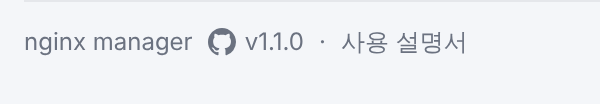
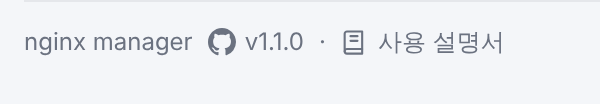
사용 설명서 링크를 메뉴 아래 눈에 띄는 단추로, footer에도 아이콘
Claude-Session: https://claude.ai/code/session_01Xx9UjmFxa6PwMWkaLNmHo7

Changed region(s): [[0.57, 0.2885, 0.84, 0.5481]]

diff --git a/src/main/resources/templates/fragments/layout.html b/src/main/resources/templates/fragments/layout.html
@@ -27,9 +27,10 @@
         <a th:if="${currentUser != null and currentUser.isAdmin()}" th:href="@{/users}" th:classappend="${navSection == 'users'} ? 'active'"><svg class="icon" viewBox="0 0 24 24" aria-hidden="true"><circle cx="9" cy="8" r="4"/><path d="M2 21a7 7 0 0 1 14 0M16 4a4 4 0 0 1 0 8M22 21a7 7 0 0 0-4-6.3"/></svg><span th:text="#{nav.users}">사용자</span></a>
         <a th:if="${currentUser != null and currentUser.isAdmin()}" th:href="@{/audit}" th:classappend="${navSection == 'audit'} ? 'active'"><svg class="icon" viewBox="0 0 24 24" aria-hidden="true"><path d="M9 5H7a2 2 0 0 0-2 2v12a2 2 0 0 0 2 2h10a2 2 0 0 0 2-2V7a2 2 0 0 0-2-2h-2"/><rect x="9" y="3" width="6" height="4" rx="1"/><path d="M9 13l2 2 4-4"/></svg><span th:text="#{nav.audit}">감사 로그</span></a>
         <a th:if="${currentUser != null and currentUser.isAdmin()}" th:href="@{/settings/notifications}" th:classappend="${navSection == 'settings'} ? 'active'"><svg class="icon" viewBox="0 0 24 24" aria-hidden="true"><circle cx="12" cy="12" r="3"/><path d="M19.4 15a1.7 1.7 0 0 0 .3 1.8l.1.1a2 2 0 1 1-2.8 2.8l-.1-.1a1.7 1.7 0 0 0-1.8-.3 1.7 1.7 0 0 0-1 1.5V21a2 2 0 1 1-4 0v-.1a1.7 1.7 0 0 0-1.1-1.5 1.7 1.7 0 0 0-1.8.3l-.1.1a2 2 0 1 1-2.8-2.8l.1-.1a1.7 1.7 0 0 0 .3-1.8 1.7 1.7 0 0 0-1.5-1H3a2 2 0 1 1 0-4h.1a1.7 1.7 0 0 0 1.5-1.1 1.7 1.7 0 0 0-.3-1.8l-.1-.1a2 2 0 1 1 2.8-2.8l.1.1a1.7 1.7 0 0 0 1.8.3H9a1.7 1.7 0 0 0 1-1.5V3a2 2 0 1 1 4 0v.1a1.7 1.7 0 0 0 1 1.5 1.7 1.7 0 0 0 1.8-.3l.1-.1a2 2 0 1 1 2.8 2.8l-.1.1a1.7 1.7 0 0 0-.3 1.8V9a1.7 1.7 0 0 0 1.5 1H21a2 2 0 1 1 0 4h-.1a1.7 1.7 0 0 0-1.5 1z"/></svg><span th:text="#{nav.settings}">설정</span></a>
-        <a class="nav-manual" th:href="${appVersion.manualUrl()}" target="_blank" rel="noopener"><svg class="icon" viewBox="0 0 24 24" aria-hidden="true"><path d="M4 5a2 2 0 0 1 2-2h13v15H6a2 2 0 0 0-2 2z"/><path d="M4 20a2 2 0 0 0 2 2h13v-4M9 7h6M9 11h6"/></svg><span th:text="#{nav.manual}">사용 설명서</span></a>
     </div>
     <span class="spacer"></span>
+    <!-- 사용 설명서: 메뉴와 구분해 눈에 띄게 둔다. 새 탭으로 GitHub의 설명서를 연다 -->
+    <a class="nav-manual" th:href="${appVersion.manualUrl()}" target="_blank" rel="noopener"><svg class="icon" viewBox="0 0 24 24" aria-hidden="true"><path d="M4 5a2 2 0 0 1 2-2h13v15H6a2 2 0 0 0-2 2z"/><path d="M4 20a2 2 0 0 0 2 2h13v-4M9 7h6M9 11h6"/></svg><span th:text="#{nav.manual}">사용 설명서</span><svg class="icon icon-external" viewBox="0 0 24 24" aria-hidden="true"><path d="M14 4h6v6M20 4l-9 9M18 14v5a1 1 0 0 1-1 1H5a1 1 0 0 1-1-1V7a1 1 0 0 1 1-1h5"/></svg></a>
     <div class="langs" th:fragment="langs" th:aria-label="#{nav.language}">
         <a href="?lang=ko" th:href="${langQuery} + 'lang=ko'" lang="ko" th:classappend="${#locale.language == 'ko'} ? 'active'">한국어</a>
         <a href="?lang=en" th:href="${langQuery} + 'lang=en'" lang="en" th:classappend="${#locale.language == 'en'} ? 'active'">English</a>
@@ -83,7 +84,7 @@
     <span>nginx manager</span>
     <a th:href="${appVersion.releaseNotesUrl()}" th:title="#{footer.releaseNotes}" target="_blank" rel="noopener"><svg class="icon icon-github" viewBox="0 0 16 16" aria-hidden="true"><path d="M8 0C3.58 0 0 3.58 0 8c0 3.54 2.29 6.53 5.47 7.59.4.07.55-.17.55-.38 0-.19-.01-.82-.01-1.49-2.01.37-2.53-.49-2.69-.94-.09-.23-.48-.94-.82-1.13-.28-.15-.68-.52-.01-.53.63-.01 1.08.58 1.23.82.72 1.21 1.87.87 2.33.66.07-.52.28-.87.51-1.07-1.78-.2-3.64-.89-3.64-3.95 0-.87.31-1.59.82-2.15-.08-.2-.36-1.02.08-2.12 0 0 .67-.21 2.2.82.64-.18 1.32-.27 2-.27.68 0 1.36.09 2 .27 1.53-1.04 2.2-.82 2.2-.82.44 1.1.16 1.92.08 2.12.51.56.82 1.27.82 2.15 0 3.07-1.87 3.75-3.65 3.95.29.25.54.73.54 1.48 0 1.07-.01 1.93-.01 2.2 0 .21.15.46.55.38A8.013 8.013 0 0 0 16 8c0-4.42-3.58-8-8-8z"/></svg><span th:text="${appVersion.label()}">v1.0.0</span></a>
     <span aria-hidden="true">·</span>
-    <a th:href="${appVersion.manualUrl()}" th:text="#{footer.manual}" target="_blank" rel="noopener">사용 설명서</a>
+    <a th:href="${appVersion.manualUrl()}" target="_blank" rel="noopener"><svg class="icon" viewBox="0 0 24 24" aria-hidden="true"><path d="M4 5a2 2 0 0 1 2-2h13v15H6a2 2 0 0 0-2 2z"/><path d="M4 20a2 2 0 0 0 2 2h13v-4M9 7h6M9 11h6"/></svg><span th:text="#{footer.manual}">사용 설명서</span></a>
 </footer>
 </body>
 </html>

diff --git a/src/main/resources/static/css/app.css b/src/main/resources/static/css/app.css
@@ -92,6 +92,13 @@ li { margin: .25rem 0; }
 .nav-links { display: flex; flex-direction: column; gap: .15rem; }
 .nav-label { margin: 1rem .7rem .35rem; color: var(--side-muted); font-size: .72rem; font-weight: 600; letter-spacing: .06em; }
 .nav .spacer { flex: 1; }
+.nav a.nav-manual {
+    margin: 0 0 .75rem; border: 1px solid rgba(45, 212, 191, .35); background: rgba(45, 212, 191, .08);
+    color: #fff; font-weight: 600;
+}
+.nav a.nav-manual:hover { background: rgba(45, 212, 191, .16); border-color: rgba(45, 212, 191, .6); }
+.nav a.nav-manual .icon { color: #2dd4bf; }
+.nav a.nav-manual .icon-external { width: 14px; height: 14px; margin-left: auto; color: var(--side-muted); }
 .langs { display: grid; grid-template-columns: 1fr 1fr; gap: .2rem; padding: .5rem .35rem .75rem; }
 .nav .langs a { width: auto; justify-content: center; padding: .2rem .5rem; border-radius: 6px; font-size: .75rem; color: var(--side-muted); }
 .nav .langs a.active { background: rgba(148, 163, 184, .16); color: #fff; }
@@ -502,6 +509,7 @@ body > footer, .footer { padding: 1.25rem 2rem 2rem; text-align: center; color: 
     .nav-user { border-top: 0; padding-top: 0; margin-left: auto; }
     .nav a, .nav button.link { width: auto; white-space: nowrap; padding: .45rem .6rem; }
     .nav-user span { display: none; }
+    .nav a.nav-manual { margin: 0; }
     .nav .langs { display: flex; padding: 0; }
     .page { padding: 1.25rem 1rem 2rem; }
     .columns { grid-template-columns: 1fr; }
@@ -526,9 +534,11 @@ body > footer, .footer { padding: 1.25rem 2rem 2rem; text-align: center; color: 
     .js .nav.open .nav-user { border-top: 1px solid rgba(148, 163, 184, .15); padding-top: .5rem; }
     .js .nav.open .nav-user span { display: inline; }
     .js .nav.open .nav-links a, .js .nav.open .nav-user a, .js .nav.open button.link { width: 100%; padding: .6rem .7rem; }
+    .js .nav.open a.nav-manual { width: 100%; margin: .5rem 0 0; padding: .6rem .7rem; }
     .js .nav.open .langs { width: 100%; padding: .5rem 0 0; flex-wrap: wrap; }
     .js .nav.open .langs a { width: auto; }
 }
 .footer { box-sizing: border-box; width: calc(100% - 4rem); max-width: calc(1200px - 4rem); margin: 0 auto; padding: .75rem 0 1.5rem; display: flex; gap: .5rem; color: var(--muted); font-size: .8rem; border-top: 1px solid var(--line); }
 .footer a { color: var(--muted); display: inline-flex; align-items: center; gap: .3rem; }
-.footer .icon-github { width: 14px; height: 14px; fill: currentColor; stroke: none; }
+.footer .icon { width: 14px; height: 14px; }
+.footer .icon-github { fill: currentColor; stroke: none; }

diff --git a/src/test/java/net/nginxmanager/dashboard/DashboardTest.java b/src/test/java/net/nginxmanager/dashboard/DashboardTest.java
@@ -144,7 +144,7 @@ class DashboardTest extends ConfigRootTest {
                 .andExpect(content().string(containsString(">dev</span></a>")))
                 .andExpect(content().string(containsString("class=\"icon icon-github\"")))
                 .andExpect(content().string(containsString("class=\"nav-manual\" href=\"" + AppVersion.MANUAL_URL + "\"")))
-                .andExpect(content().string(containsString("href=\"" + AppVersion.MANUAL_URL + "\" target=\"_blank\" rel=\"noopener\">사용 설명서</a>\n</footer>")));
+                .andExpect(content().string(containsString(">사용 설명서</span></a>\n</footer>")));
         mvc.perform(get("/login"))
                 .andExpect(status().isOk())
                 .andExpect(content().string(not(containsString("<footer"))));

diff --git a/docs/manual/02-getting-started.md b/docs/manual/02-getting-started.md
@@ -28,7 +28,7 @@
 
 <p align="center"><img src="images/dashboard.png" alt="로그인한 뒤의 대시보드" width="860"></p>
 
-- **왼쪽 메뉴**: 대시보드, 사이트, 스트림, 설정 파일, 이력, 인증서, 적용이 있습니다. 관리자에게는 **관리** 아래에 사용자, 감사 로그, 설정이 더 보입니다. 맨 아래 **사용 설명서**는 이 문서를 새 탭으로 엽니다. 적용 메뉴 옆의 숫자는 아직 적용하지 않은 초안 수입니다. 보기 전용 사용자에게는 적용 메뉴가 보이지 않습니다.
+- **왼쪽 메뉴**: 대시보드, 사이트, 스트림, 설정 파일, 이력, 인증서, 적용이 있습니다. 관리자에게는 **관리** 아래에 사용자, 감사 로그, 설정이 더 보입니다. 메뉴 아래 테두리가 있는 **사용 설명서** 단추는 이 문서를 새 탭으로 엽니다. 적용 메뉴 옆의 숫자는 아직 적용하지 않은 초안 수입니다. 보기 전용 사용자에게는 적용 메뉴가 보이지 않습니다.
 - **언어**: 메뉴 아래에서 한국어, English, 日本語, 简体中文 중에 고릅니다. 고른 언어는 브라우저에 기억됩니다.
 - **테마 바꾸기**: 밝은 화면과 어두운 화면(다크 모드)을 바꿉니다. 처음에는 운영체제 설정을 따릅니다.
 - **내 계정과 로그아웃**: 메뉴 맨 아래의 아이디를 누르면 [내 계정](#내-계정)으로 갑니다. 그 아래 **로그아웃**이 있습니다.
